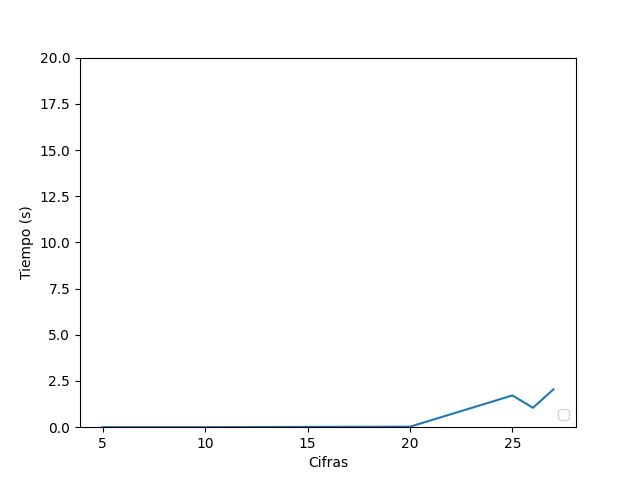
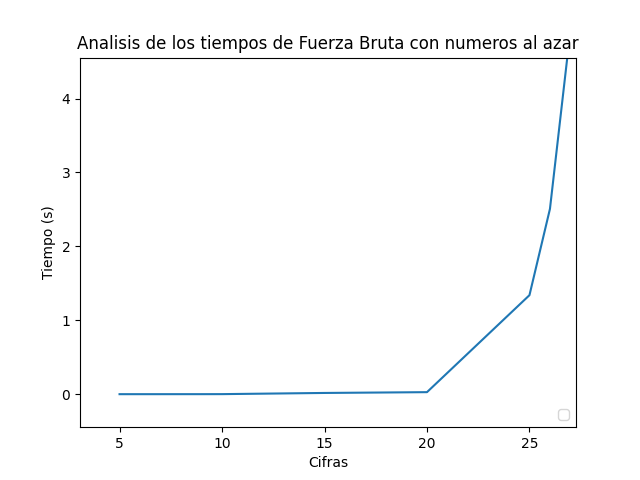
terminada analisis tiempos factorizacion

diff --git a/Prácticas/Práctica 3/Practica3.py b/Prácticas/Práctica 3/Practica3.py
@@ -377,9 +377,9 @@ lista9 = [957589949, 285993255, 200223675, 993727427, 154075407]
 lista10 = [3945148065, 2077524455, 1410741741, 3013455917, 7712733825]
 lista15 = [913317468542225, 748978625210683, 211935444719693, 390393118631019, 575899868400667]
 lista20 = [51604320814203832237, 63298031496990993641, 93152113314002488709, 82094134748542079777, 42668303529324435681]
-lista25 = [5753781489398154520077575, 1568839284256802316822443, 1034216747782422372712111, 7204306301536692130224763, 4495855547372823594773827]
-lista26 = [95076211472209350326728047, 47338943537964932210047007, 30012127829086299798457447, 19095961728339693364648037, 61202511203740664152802819]
-lista26_2 = [95679260989574319683135281, 87583978313058817962592301, 78035248502179883169895185, 96594872684726795011789299, 29162859309540896693564439]
+lista25 = [9235944706891845614784115, 3717464217041394969007605, 8570068464568860651987925, 2875379783725332151103491, 9535767070476344606042013]
+lista26 = [67946887789552051008439179, 52870480499543573439932129, 76401231869574802717687385, 33050631574857405494688379, 77557002475731275722629483]
+lista27 = [780925575522853475955352419, 720014389960807569149531533, 720008106673540279485551917, 446089799192693571054161049, 186928968367636441424924251]
 lista30 = [836577948117758985722942613799, 854202510403040818810399554939, 935666137359668426043087828925, 202441064247149515404577274991, 960379780468439013154173986349]
 lista35 = [76645241700803651401124587201748681, 12823223713583358308531119681711701, 98649954850333860654599850352269507, 52064694366521480826455507641371515, 99286329004398911540709324694099265]
 lista40 = [7668420727544971518053436518488432628883, 8032464906103930651088807409601003116383, 9948310486517235012574805696573476274511, 8348154590220022171566106027323561733821, 4154812008470255664651771153867816888691]
@@ -406,7 +406,7 @@ lista25_primos = [468005510558668309872259, 544238069390407160922089, 2026666595
 lista30_primos = [349918146876821449306418779589, 206602364307104253637740363733, 613006584758208824755166300473, 948179851363658864249921518783, 286495981162490897726704631897]
 
 #Los tiempos fuerza bruta no funcionan con numeros productos de primos de 28 cifras!
-tiempos_fb = [0.0002723217010498047, 0.00034456253051757814, 0.0003478527069091797, 0.00044956207275390623, 0.0005135059356689454, 0.0009255886077880859, 0.016902446746826172, 0.02760634422302246, 1.718829345703125, 1.04946026802063, 2.0489892959594727]
+tiempos_fb = [0.0002723217010498047, 0.00034456253051757814, 0.0003478527069091797, 0.00044956207275390623, 0.0005135059356689454, 0.0009255886077880859, 0.016902446746826172, 0.02760634422302246, 1.339552402496338, 2.5072630405426026,4.927287149429321]
 
 #Los tiempos fuerza bruta no funcionan con numeros productos de primos de 20 cifras!
 tiempos_fb_primos = [0.00019092559814453124, 0.0002642631530761719, 0.0002818107604980469, 0.0009270191192626953, 0.0008560657501220703, 0.003333568572998047, 0.25221872329711914, 1.613796329498291, 1.1491723537445069, 14.669361448287964, 16.867420434951782]
@@ -420,18 +420,74 @@ tiempos_fermat_primos = [0.0003816127777099609, 0.0009403228759765625, 0.0007202
 # Los tiempos de pollard no funcionan con numeros de 42 cifras
 tiempos_pollard = [0.0004434108734130859, 0.0004404544830322266, 0.0006488800048828125, 0.0007706165313720703, 0.0008330821990966796, 0.0011154651641845704, 0.0022962093353271484, 0.005032730102539062, 0.0080963134765625, 0.026056623458862303, 0.03912820816040039, 1.6526556015014648, 40.911604976654054]
 
-# 30 cifras
+# 28 cifras
 tiempos_pollard_primos = [0.00038447380065917967, 0.0005166053771972657, 0.0005702972412109375, 0.0008878707885742188, 0.00022954940795898436, 0.0015295982360839845, 0.006908845901489258, 0.2487804889678955, 0.20681509971618653, 0.8142501831054687, 0.8326740741729737, 2.2809261322021483]
 
 
-x = [5,6,7,8,9,10,15,20,25,26,27]
+xfb = [5,6,7,8,9,10,15,20,25,26,27]
+xfb_primos = [5,6,7,8,9,10,15,16,17,18,19]
+xfermat = [5,6,7,8,9,10]
+xfermat_primos = [5,6,7,8,9,10,15,20]
+xpollard = [5,6,7,8,9,10,15,20,25,30,35,40,41]
+xpollard_primos = [5,6,7,8,9,10,15,20,25,26,27,28]
 
-
+"""
 trx.figure(num=1)
 trx.xlabel("Cifras")
 trx.ylabel("Tiempo (s)")
-trx.ylim(0,20)
-trx.plot(x,tiempos_fb)
+trx.ylim(0,5)
+trx.plot(xfb,tiempos_fb)
 trx.legend(loc="lower right")
+trx.title('Analisis de los tiempos de Fuerza Bruta con numeros al azar')
+trx.show()
+"""
+
+trx.figure(num=2)
+trx.xlabel("Cifras")
+trx.ylabel("Tiempo (s)")
+trx.ylim(0,20)
+trx.xlim(0,18)
+trx.plot(xfb_primos,tiempos_fb_primos)
+trx.legend(loc="lower right")
+trx.title('Analisis de los tiempos de Fuerza Bruta con numeros productos de primos')
 trx.show()
 
+
+trx.figure(num=3)
+trx.xlabel("Cifras")
+trx.ylabel("Tiempo (s)")
+trx.ylim(0,100)
+trx.plot(xfermat,tiempos_fermat)
+trx.legend(loc="lower right")
+trx.title('Analisis de los tiempos de Fermat con numeros al azar')
+trx.show()
+
+
+trx.figure(num=4)
+trx.xlabel("Cifras")
+trx.ylabel("Tiempo (s)")
+trx.ylim(0,20)
+trx.plot(xfermat_primos,tiempos_fermat_primos)
+trx.legend(loc="lower right")
+trx.title('Analisis de los tiempos de Fermat con numeros productos de primos')
+trx.show()
+
+
+trx.figure(num=5)
+trx.xlabel("Cifras")
+trx.ylabel("Tiempo (s)")
+trx.ylim(0,40)
+trx.plot(xpollard,tiempos_pollard)
+trx.legend(loc="lower right")
+trx.title('Analisis de los tiempos de Pollard con numeros al azar')
+trx.show()
+
+trx.figure(num=6)
+trx.xlabel("Cifras")
+trx.ylabel("Tiempo (s)")
+trx.ylim(0,2.29)
+trx.xlim(0,29)
+trx.plot(xpollard_primos,tiempos_pollard_primos)
+trx.legend(loc="lower right")
+trx.title('Analisis de los tiempos de Pollard con numeros productos de primos')
+trx.show()
